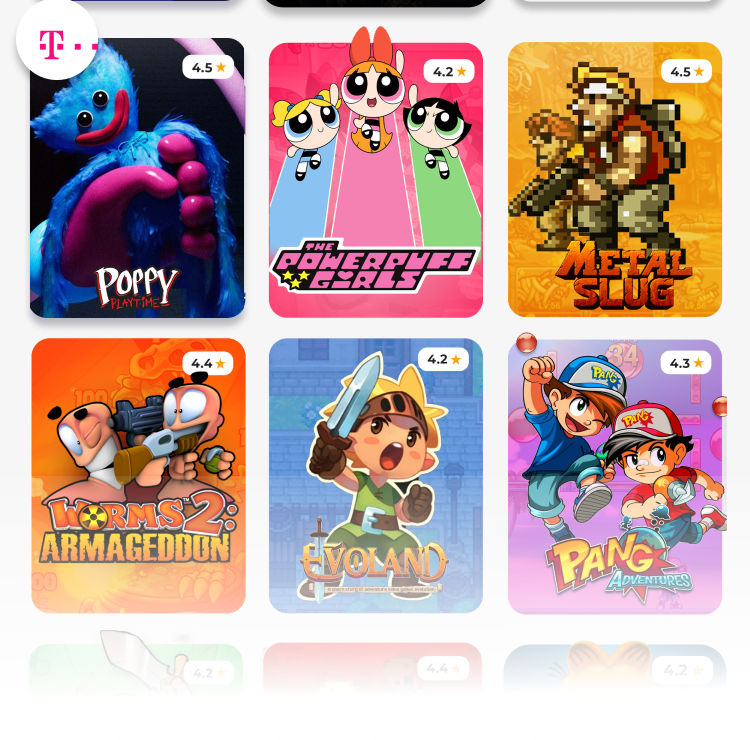
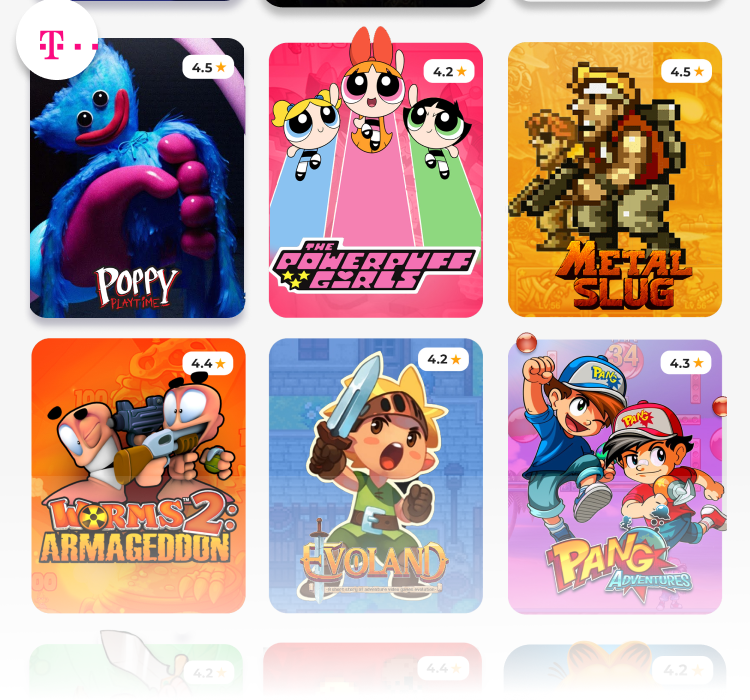
fixed

diff --git a/src/otp.html b/src/otp.html
@@ -24,13 +24,13 @@
 
                         <p class="fs-4 mb-3">Wypełnienie tego formularza oznacza akceptacje <a href="external/terms.html" class="btn-link fs-4">Regulaminu Usługi</a></p>
 
-                        <p class="mb-3">Usługę możesz dezaktywować poprzez: <span class="text-warning text-uppercase">stop BITEGAMES</span> na 80708 (Orange) lub 80425 (T-Mobile / Plus) lub 191 (Play).Opłata zostanie doliczona do Twojego rachunku u twojego operatora
-                            (telefon na abonament) lub odliczona od środków na koncie (telefon na kartę).
+                        <p class="mb-3">Usługę możesz dezaktywować poprzez: <span class="text-warning text-uppercase">stop PLAYWING</span> na 80708 (Orange) lub 80425 (T-Mobile / Plus) lub 191 (Play).Opłata zostanie doliczona do Twojego rachunku u twojego operatora (telefon
+                            na abonament) lub odliczona od środków na koncie (telefon na kartę).
                         </p>
                         <p>W przypadku, gdy korzystanie z Serwisu wiąże się z koniecznością pobierania danych transmisją GSM, opłaty te naliczy Operator, zgodnie z aktualnym cennikiem Operatora, z którym zawarł umowę . Naciśnij przycisk, aby zasubskrybować
                             usługę.
                         </p>
-                        <p class="mb-3">Aby anulować, wyślij „STOP BITEGAMES” pod numer 80425 (0 USD).
+                        <p class="mb-3">Aby anulować, wyślij „STOP PLAYWING” pod numer 80425 (0 USD).
                         </p>
                         <p class="mb-3">Kontakt: <a href="mailto:info-pl@mobileinfo.biz" class="btn-link d-inline">info-pl@mobileinfo.biz</a> <span class="text-warning d-inline">/</span> <a href="mailto:support@playwing.com" class="btn-link">support@playwing.com</a>,
                             numer telefoniczny: 800 00 7173 (opłata lokalna) od poniedziałku do piątku w godzinach 09:00 – 17:00.

diff --git a/src/pin.html b/src/pin.html
@@ -2,11 +2,11 @@
 <html lang="cz">
 //= html_partials/head.html
 
-<body class="index">
+<body class="index bg-white">
     <main class="main">
         <!-- Main section -->
         <section class="banner">
-            <img src="img/hero-bg.png" alt="Banner image" class="banner-bg">
+            <img src="img/hero-bg-second.png" alt="Banner image" class="banner-bg">
         </section>
         <section class="hero pb-4">
             <div class="container">
@@ -18,13 +18,13 @@
                             <input type="text" pattern="[0-9]*" class="form-control text-center mb-2" id="inputPin" placeholder="XXXX" minlength="4" maxlength="4" required>
 
                             <div class="d-grid mb-3">
-                                <button type="submit" class="btn btn-warning">Zamawiam I płacę</button>
+                                <button type="submit" class="btn btn-warning">Zamawiam I Płacę</button>
                             </div>
 
                             <div class="checkbox d-flex mb-3 px-3">
                                 <input class="form-check-input" type="checkbox" id="invalidCheckOffers" required>
 
-                                <label class="form-check-label p-0 ms-2" for="invalidCheckOffers">
+                                <label class="form-check-label p-0 ms-1" for="invalidCheckOffers">
                                     Akceptuję <a href="external/terms.html" class="btn-link fs-4">Regulamin Playwing</a> oraz regulamin <a href="index.html" class="btn-link">Zamów zT-Mobile.</a> Potwierdzam, że jestem świadomy utraty prawa odstąpienia od umowy.
                             </label>
                             </div>

diff --git a/src/index.html b/src/index.html
@@ -27,7 +27,7 @@
                         <p>W przypadku, gdy korzystanie z Serwisu wiąże się z koniecznością pobierania danych transmisją GSM, opłaty te naliczy Operator, zgodnie z aktualnym cennikiem Operatora, z którym zawarł umowę . Naciśnij przycisk, aby zasubskrybować
                             usługę.
                         </p>
-                        <p class="mb-3">Aby anulować, wyślij „STOP BITEGAMES” pod numer 80425 (0 USD).
+                        <p class="mb-3">Aby anulować, wyślij „STOP PLAYWING” pod numer 80425 (0 USD).
                         </p>
                         <p class="mb-3">Kontakt: <a href="mailto:info-pl@mobileinfo.biz" class="btn-link d-inline">info-pl@mobileinfo.biz</a> <span class="text-warning d-inline">/</span> <a href="mailto:support@playwing.com" class="btn-link">support@playwing.com</a>,
                             numer telefoniczny: 800 00 7173 (opłata lokalna) od poniedziałku do piątku w godzinach 09:00 – 17:00.

diff --git a/src/success.html b/src/success.html
@@ -14,7 +14,7 @@
                 </div>
             </div>
         </section>
-        <section class="hero pt-4 pb-4">
+        <section class="hero pt-5 pb-4">
             <div class="container">
                 <div class="row justify-content-center">
                     <div class="col-lg-7 col-11">

diff --git a/src/style/main.scss b/src/style/main.scss
@@ -40,7 +40,7 @@
         .banner-block {
             width: 100%;
             position: absolute;
-            bottom: 0;
+            bottom: -3rem;
             .banner-text {
                 position: absolute;
                 bottom: -1.5rem;

diff --git a/src/style/theme/_utilities.scss b/src/style/theme/_utilities.scss
@@ -1,5 +1,5 @@
 body {
-    --bs-body-bg: #{$white};
+    --bs-body-bg: #{$gray-232};
     --bs-body-color: #{$black};
     margin: 0;
     padding: 0;
